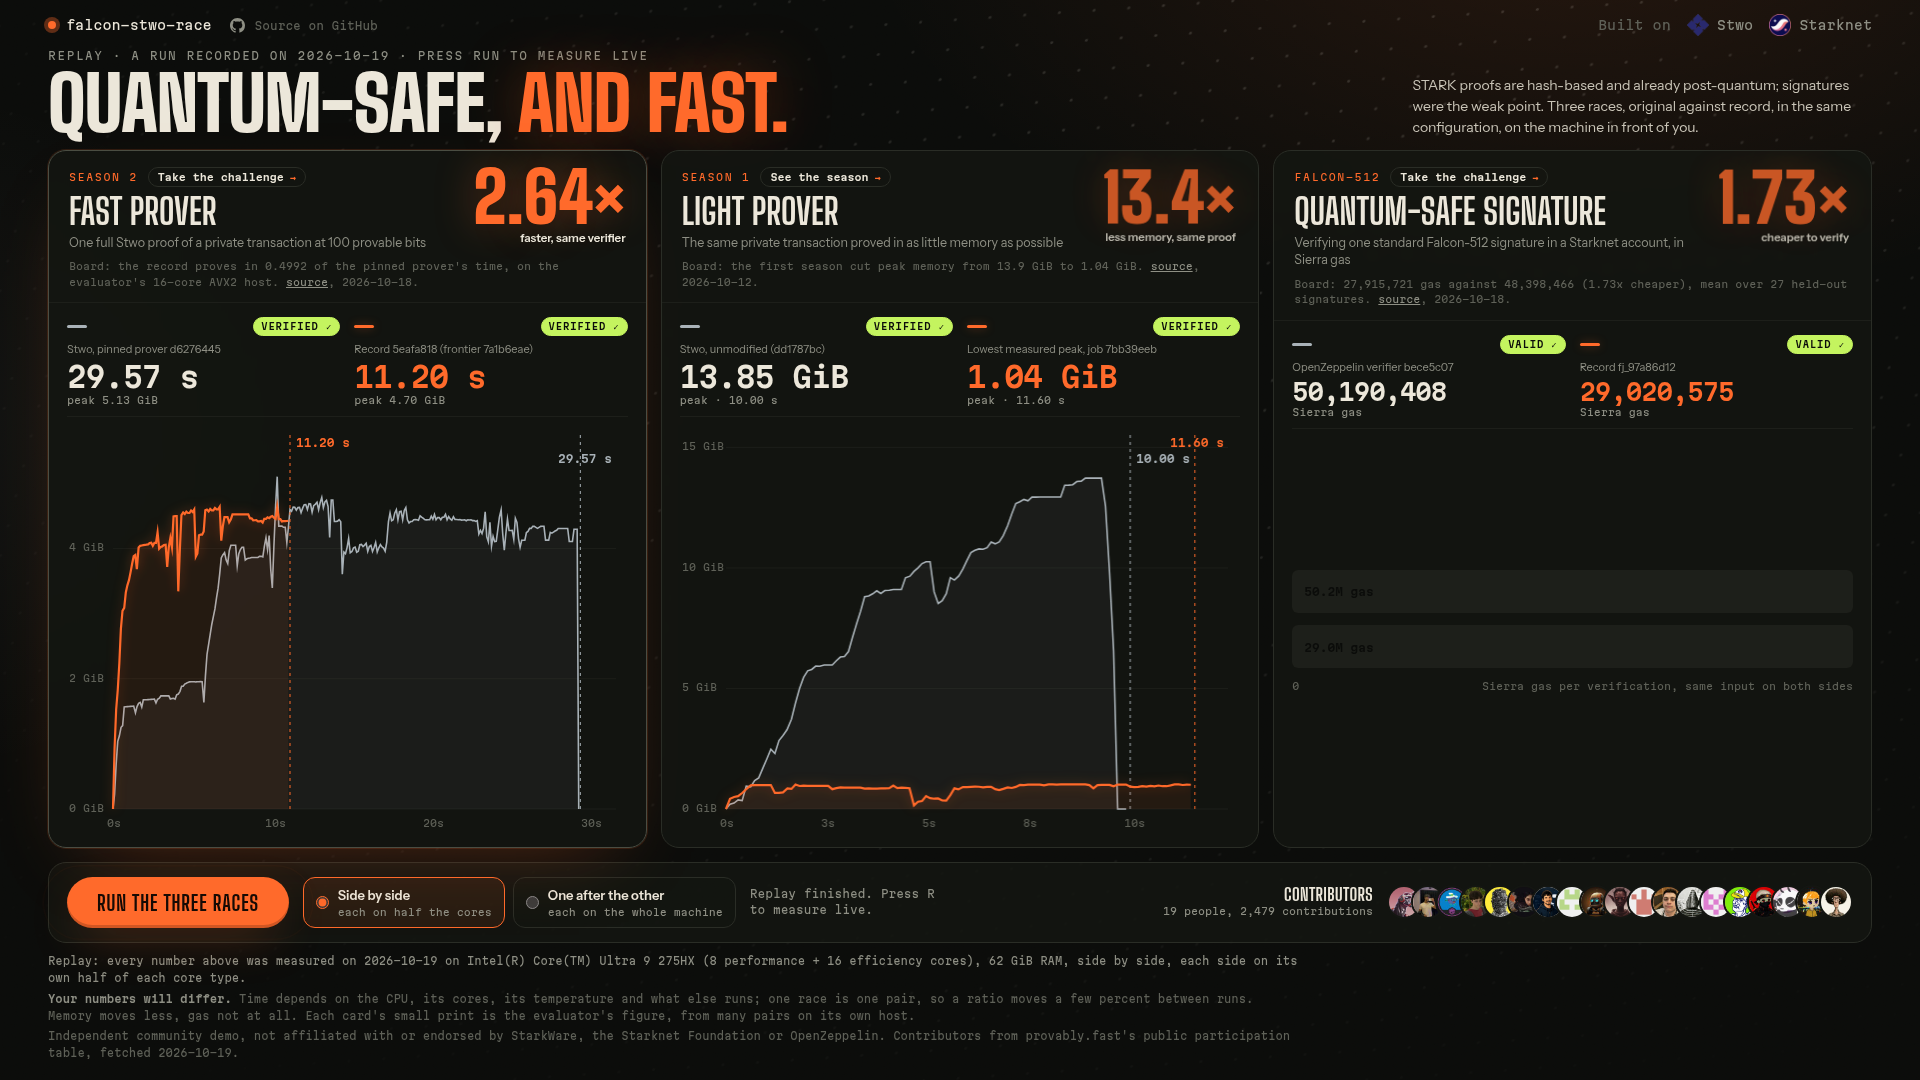
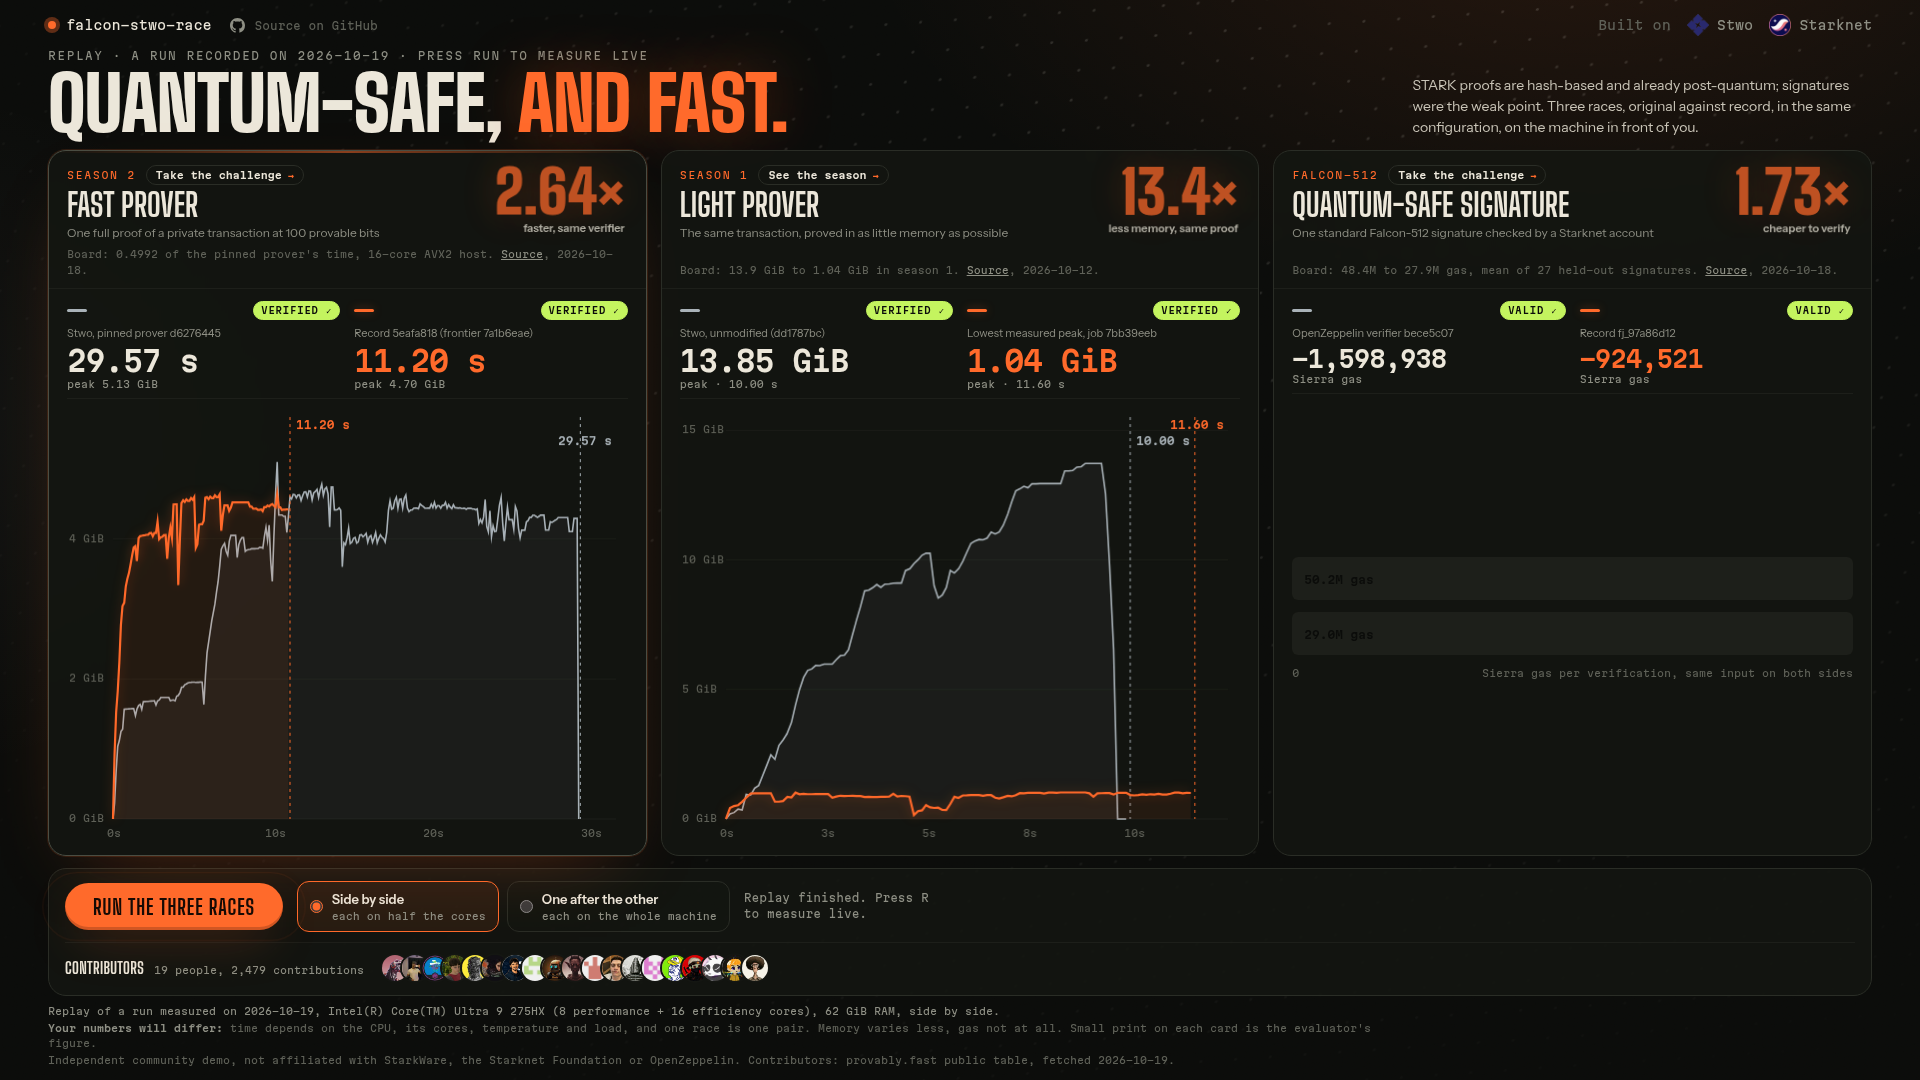
Equal card headers, contributors under the run controls, compact text
The three cards share their row tracks (subgrid), so their headers line up at
the same height. Contributors move to their own row under the run controls,
and card texts and the footnote are shorter so the page breathes on 1440x900.

diff --git a/web/styles.css b/web/styles.css
@@ -83,9 +83,10 @@ h1 em { font-style: normal; color: var(--rec); text-shadow: 0 0 60px var(--rec-g
 .lede { animation-delay: 120ms; }
 
 /* Lanes */
-.lanes { display: grid; grid-template-columns: repeat(3, minmax(0, 1fr)); gap: 14px; min-height: 0; }
+/* The three cards share two row tracks (subgrid), so their headers have the same height. */
+.lanes { display: grid; grid-template-columns: repeat(3, minmax(0, 1fr)); grid-template-rows: auto minmax(0, 1fr); column-gap: 14px; min-height: 0; }
 .lane {
-  position: relative; display: grid; grid-template-rows: auto minmax(0, 1fr); min-height: 0;
+  position: relative; display: grid; grid-row: span 2; grid-template-rows: subgrid; min-height: 0;
   border: 1px solid var(--line); border-radius: var(--r); overflow: hidden;
   background: var(--panel); backdrop-filter: blur(6px);
   opacity: 0; transform: translateY(14px); animation: rise .8s var(--ease) forwards; animation-delay: calc(var(--i) * 110ms + 200ms);
@@ -96,13 +97,13 @@ h1 em { font-style: normal; color: var(--rec); text-shadow: 0 0 60px var(--rec-g
 .lane.active::before { opacity: 1; animation: sweep 2.2s linear infinite; background-size: 50% 100%; background-repeat: no-repeat; }
 @keyframes sweep { from { background-position: -50% 0; } to { background-position: 150% 0; } }
 
-.lane-info { display: grid; grid-template-columns: minmax(0, 1fr) auto; grid-template-rows: auto auto; gap: 8px 14px; padding: 16px 20px 12px; border-bottom: 1px solid var(--line-soft); }
-.kicker-row { display: flex; align-items: center; gap: 10px; margin-bottom: 8px; }
+.lane-info { display: grid; grid-template-columns: minmax(0, 1fr) auto; grid-template-rows: 1fr auto; gap: 6px 14px; padding: 14px 18px 10px; border-bottom: 1px solid var(--line-soft); }
+.kicker-row { display: flex; align-items: center; gap: 10px; margin-bottom: 6px; }
 .kicker { font: 400 10px var(--mono); text-transform: uppercase; letter-spacing: 0.16em; color: var(--rec); margin: 0; }
-.lane-title { font: 700 clamp(24px, 2vw, 36px)/0.92 var(--display); text-transform: uppercase; margin: 0 0 6px; }
-.lane-sub { color: var(--muted); margin: 0; font-size: 12.5px; line-height: 1.4; }
+.lane-title { font: 700 clamp(22px, 1.8vw, 32px)/0.92 var(--display); text-transform: uppercase; margin: 0 0 5px; }
+.lane-sub { color: var(--muted); margin: 0; font-size: 12px; line-height: 1.35; }
 .verdict { grid-column: 2; grid-row: 1; display: flex; flex-direction: column; align-items: flex-end; text-align: right; }
-.verdict-num { font: 900 clamp(42px, 3.8vw, 70px)/0.86 var(--display); color: var(--rec); letter-spacing: -0.01em; text-shadow: 0 0 40px var(--rec-glow); }
+.verdict-num { font: 900 clamp(40px, 3.4vw, 62px)/0.86 var(--display); color: var(--rec); letter-spacing: -0.01em; text-shadow: 0 0 40px var(--rec-glow); }
 .verdict-txt { font: 600 11.5px var(--body); color: var(--paper); margin-top: 4px; }
 .verdict.pop { animation: pop .6s var(--ease); }
 @keyframes pop { from { transform: scale(.86); opacity: 0; } to { transform: none; opacity: 1; } }
@@ -117,7 +118,7 @@ h1 em { font-style: normal; color: var(--rec); text-shadow: 0 0 60px var(--rec-g
 .challenge:hover { border-color: var(--rec); background: var(--rec-soft); }
 .challenge:hover i { transform: translateX(3px); }
 
-.lane-race { display: grid; grid-template-rows: auto minmax(0, 1fr); gap: 10px; padding: 14px 18px 14px; min-height: 0; }
+.lane-race { display: grid; grid-template-rows: auto minmax(0, 1fr); gap: 8px; padding: 12px 18px 12px; min-height: 0; }
 .sides { display: grid; grid-template-columns: 1fr 1fr; gap: 14px; }
 .side { min-width: 0; }
 .side-head { display: flex; align-items: center; gap: 8px; }
@@ -149,14 +150,15 @@ h1 em { font-style: normal; color: var(--rec); text-shadow: 0 0 60px var(--rec-g
 @keyframes rise { to { opacity: 1; transform: none; } }
 
 /* Dock: run controls and contributors, under the cards */
+/* Dock under the cards: run controls, then the contributors on their own row. */
 .dock {
-  display: grid; grid-template-columns: auto minmax(0, 1fr); align-items: center; gap: 18px 36px;
-  margin-top: 14px; padding: 14px 18px; border: 1px solid var(--line); border-radius: var(--r); background: var(--panel);
+  display: grid; grid-template-columns: minmax(0, 1fr); gap: 10px;
+  margin-top: 12px; padding: 12px 16px; border: 1px solid var(--line); border-radius: var(--r); background: var(--panel);
 }
 .dock-run { display: flex; align-items: center; gap: 14px; flex-wrap: wrap; }
 .go {
   position: relative; isolation: isolate;
-  border: 0; cursor: pointer; padding: 15px 30px; border-radius: 999px;
+  border: 0; cursor: pointer; padding: 13px 28px; border-radius: 999px;
   background: var(--rec); color: #160a04;
   font: 700 21px/1 var(--display); text-transform: uppercase; letter-spacing: 0.04em;
   box-shadow: 0 16px 50px -14px var(--rec-glow), inset 0 -3px 0 rgba(0, 0, 0, 0.18);
@@ -183,15 +185,15 @@ h1 em { font-style: normal; color: var(--rec); text-shadow: 0 0 60px var(--rec-g
 .status.live { color: var(--paper); }
 kbd { font: 600 10px var(--mono); padding: 1px 5px; border: 1px solid var(--line); border-radius: 5px; color: var(--muted); }
 
-.dock-people { min-width: 0; justify-self: end; display: flex; align-items: center; gap: 14px; }
-.people-head { margin: 0; display: grid; text-align: right; font: 700 18px/1 var(--display); text-transform: uppercase; letter-spacing: .02em; white-space: nowrap; }
-.people-head small { font: 400 10px/1.6 var(--mono); color: var(--muted); text-transform: none; letter-spacing: 0; }
+.dock-people { min-width: 0; display: flex; align-items: center; gap: 16px; padding-top: 10px; border-top: 1px solid var(--line-soft); }
+.people-head { margin: 0; display: flex; align-items: baseline; gap: 10px; font: 700 16px/1 var(--display); text-transform: uppercase; letter-spacing: .02em; white-space: nowrap; }
+.people-head small { font: 400 10px var(--mono); color: var(--muted); text-transform: none; letter-spacing: 0; }
 /* Overlapping avatar stack in one row; hover lifts one and names it. */
-.people { list-style: none; margin: 0; padding: 0 0 0 10px; display: flex; flex-wrap: nowrap; justify-content: flex-end; }
+.people { list-style: none; margin: 0; padding: 0 0 0 10px; display: flex; flex-wrap: nowrap; justify-content: flex-start; }
 .people li { margin-left: -10px; transition: margin .3s var(--ease); }
 .people:hover li { margin-left: -4px; }
 .people a { display: block; border-radius: 50%; position: relative; }
-.people img { display: block; width: 34px; height: 34px; border-radius: 50%; border: 2px solid var(--panel-solid); background: var(--panel-solid); transition: transform .25s var(--ease), border-color .25s; }
+.people img { display: block; width: 30px; height: 30px; border-radius: 50%; border: 2px solid var(--panel-solid); background: var(--panel-solid); transition: transform .25s var(--ease), border-color .25s; }
 .people a:hover img, .people a:focus-visible img { transform: translateY(-4px) scale(1.15); border-color: var(--rec); position: relative; z-index: 2; }
 .people a::after {
   content: attr(data-login); position: absolute; left: 50%; bottom: calc(100% + 8px); transform: translate(-50%, 4px);
@@ -201,16 +203,13 @@ kbd { font: 600 10px var(--mono); padding: 1px 5px; border: 1px solid var(--line
 .people a:hover::after, .people a:focus-visible::after { opacity: 1; transform: translate(-50%, 0); }
 
 /* Footnote */
-.foot { padding: 10px 0 14px; font: 400 10.5px/1.6 var(--mono); color: var(--faint); }
-.foot p { margin: 0 0 4px; max-width: 170ch; }
+.foot { padding: 8px 0 10px; font: 400 10px/1.5 var(--mono); color: var(--faint); }
+.foot p { margin: 0 0 2px; max-width: 190ch; }
 .foot b { color: var(--muted); font-weight: 600; }
 .setup { color: #ffc0c9; }
 .setup.replay { color: var(--muted); }
 .setup code { color: var(--paper); }
 
-@media (max-width: 1599px) and (min-width: 1100px) {
-  .status { display: none; }
-}
 @media (max-height: 960px) and (min-width: 1100px) {
   .top { padding: 10px 0 4px; }
   .hero { padding: 2px 0 8px; }
@@ -222,18 +221,18 @@ kbd { font: 600 10px var(--mono); padding: 1px 5px; border: 1px solid var(--line
   .verdict-num { font-size: clamp(38px, 3.4vw, 58px); }
   .lane-race { padding: 10px 14px; gap: 8px; }
   .viz { min-height: 100px; }
-  .dock { margin-top: 10px; padding: 10px 14px; }
+  .dock { margin-top: 8px; padding: 8px 14px; gap: 8px; }
+  .dock-people { padding-top: 8px; }
   .go { padding: 12px 24px; font-size: 19px; }
-  .people img { width: 30px; height: 30px; }
+  .people img { width: 26px; height: 26px; }
   .foot { padding: 8px 0 10px; font-size: 10px; }
 }
 @media (max-width: 1099px) {
   .hero { grid-template-columns: 1fr; }
-  .lanes { grid-template-columns: 1fr; }
+  .lanes { grid-template-columns: 1fr; grid-template-rows: none; row-gap: 14px; }
+  .lane { grid-row: auto; grid-template-rows: auto auto; }
   .viz { height: 200px; }
-  .dock { grid-template-columns: 1fr; }
-  .dock-people { justify-self: start; flex-direction: column; align-items: flex-start; }
-  .people-head { text-align: left; }
+  .dock-people { flex-direction: column; align-items: flex-start; }
   .people { justify-content: flex-start; flex-wrap: wrap; row-gap: 6px; }
 }
 @media (max-width: 640px) {

diff --git a/web/app.js b/web/app.js
@@ -25,7 +25,7 @@ async function init() {
     $(".kicker", el).textContent = lane.kicker;
     $(".lane-title", el).textContent = lane.title;
     $(".lane-sub", el).textContent = lane.subtitle;
-    $(".official", el).innerHTML = `${lane.official.text} <a href="${lane.official.source}" target="_blank" rel="noopener">source</a>, ${lane.official.date}.`;
+    $(".official", el).innerHTML = `${lane.official.text} <a href="${lane.official.source}" target="_blank" rel="noopener">Source</a>, ${lane.official.date}.`;
     const ch = $(".challenge", el);
     ch.href = lane.challenge.url;
     $("span", ch).textContent = lane.challenge.text;
@@ -68,8 +68,8 @@ async function replay(file) {
   const box = $("#setup");
   box.hidden = false;
   box.classList.add("replay");
-  const how = run.mode === "parallel" ? "side by side, each side on its own half of each core type" : "one after the other, each side on the whole machine";
-  box.textContent = `Replay: every number above was measured on ${run.recorded} on ${run.machine}, ${how}.`;
+  const how = run.mode === "parallel" ? "side by side" : "one after the other";
+  box.textContent = `Replay of a run measured on ${run.recorded}, ${run.machine}, ${how}.`;
   for (const lane of state.lanes) reset(lane.id);
   let i = 0;
   const step = () => {

diff --git a/web/index.html b/web/index.html
@@ -58,8 +58,8 @@
 
     <footer class="foot">
       <p id="setup" class="setup" hidden></p>
-      <p><b>Your numbers will differ.</b> Time depends on the CPU, its cores, its temperature and what else runs; one race is one pair, so a ratio moves a few percent between runs. Memory moves less, gas not at all. Each card's small print is the evaluator's figure, from many pairs on its own host.</p>
-      <p>Independent community demo, not affiliated with or endorsed by StarkWare, the Starknet Foundation or OpenZeppelin. Contributors from provably.fast's public participation table, <span id="people-date"></span>.</p>
+      <p><b>Your numbers will differ:</b> time depends on the CPU, its cores, temperature and load, and one race is one pair. Memory varies less, gas not at all. Small print on each card is the evaluator's figure.</p>
+      <p>Independent community demo, not affiliated with StarkWare, the Starknet Foundation or OpenZeppelin. Contributors: provably.fast public table, <span id="people-date"></span>.</p>
     </footer>
   </div>
 
